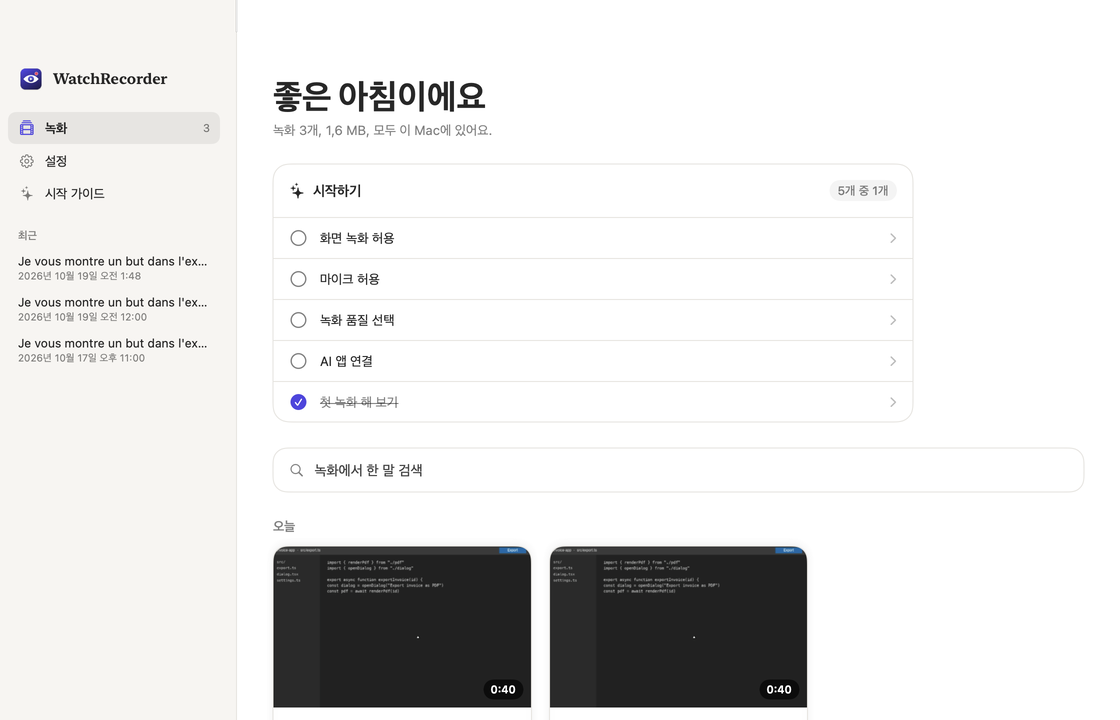
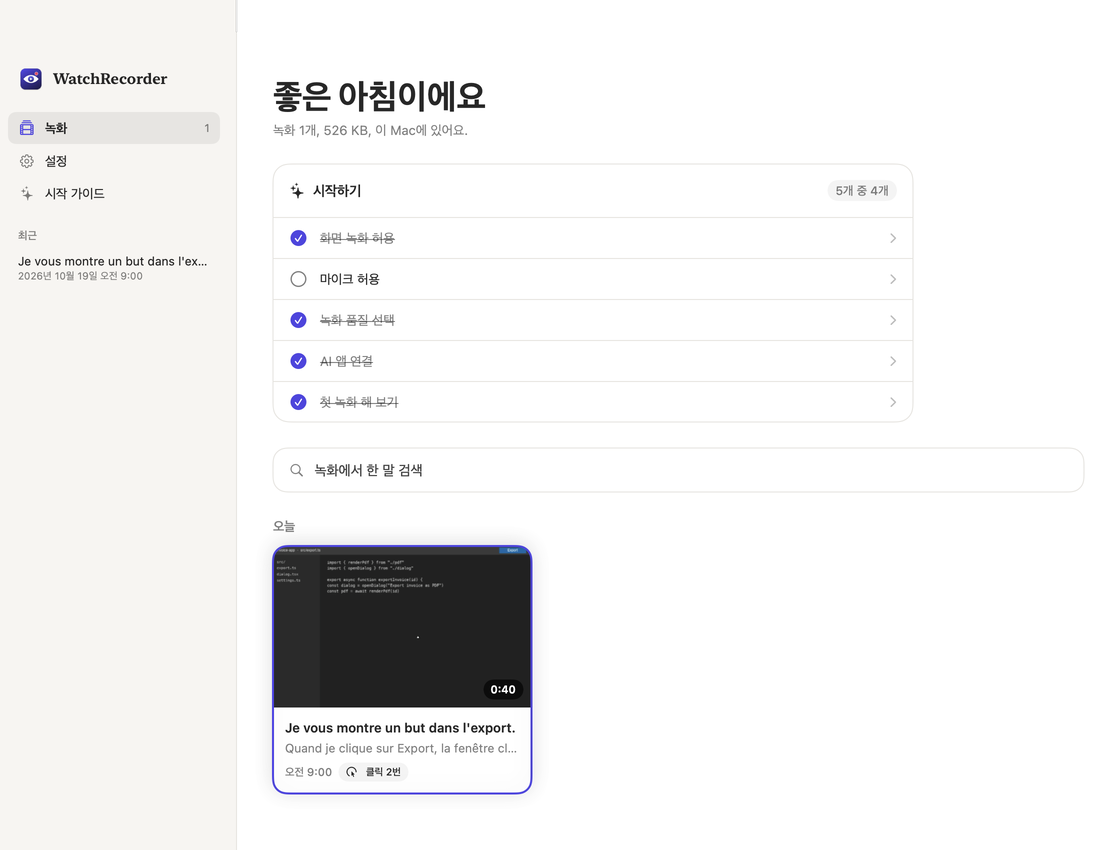
Update README, screenshots and add a WatchRecorder tour GIF
The README now covers the Dock icon, the new setup order, quitting
Claude Desktop before install and Accessibility only for automatic
paste; its intro names Codex and Cursor too. Screenshots are redrawn
from the current app, plus a Screen step one and a short tour GIF
made from the app's own rendering (scripts/make-app-gif.sh).

diff --git a/README.md b/README.md
@@ -2,7 +2,16 @@
 
 # watch-mcp
 
-**Let Claude watch videos.** Drop an MP4/MOV/MKV/WebM path into Claude Code, Claude Desktop or Cursor, and Claude sees what happens on screen and hears what is said, without anyone touching ffmpeg.
+<p align="center">
+  <a href="https://www.npmjs.com/package/watch-mcp"><img src="https://img.shields.io/npm/v/watch-mcp?color=4f46e5" alt="npm version"></a>
+  <a href="LICENSE"><img src="https://img.shields.io/badge/license-MIT-4f46e5" alt="MIT license"></a>
+  <img src="https://img.shields.io/badge/MCP-server-4f46e5" alt="MCP server">
+  <img src="https://img.shields.io/badge/local-no%20upload-4f46e5" alt="Runs locally">
+</p>
+
+**Let Claude, Codex and Cursor watch your videos and screen recordings.** watch-mcp is an MCP server: give Claude Code, Codex, Claude Desktop or Cursor the path of an MP4/MOV/MKV/WebM file, and the AI sees what happens on screen and hears what is said: timestamped storyboards, a local Whisper transcript, and zoom on any moment. Nothing is uploaded, and nobody has to touch ffmpeg.
+
+**And show your AI instead of typing.** [WatchRecorder](#watchrecorder-show-your-ai-instead-of-typing-macos), the macOS companion app: press ⌥⇧R, show the bug while you explain it out loud, press ⌥⇧R again, and your AI gets the recording.
 
 **Install it by giving this repository to your AI.** In Claude Code, Codex or Cursor, say:
 
@@ -35,7 +44,7 @@ Everything runs on your machine. No API key, no upload.
 
 Requires Node.js 20 or later. ffmpeg comes bundled with the package (via [ffmpeg-static](https://www.npmjs.com/package/ffmpeg-static) and [@ffprobe-installer/ffprobe](https://www.npmjs.com/package/@ffprobe-installer/ffprobe)); the Whisper bindings come prebuilt ([@fugood/whisper.node](https://www.npmjs.com/package/@fugood/whisper.node)), so nothing compiles on install.
 
-**Every AI app at once.** `npx -y watch-mcp install` finds Claude Code, Codex, Claude Desktop and Cursor on this machine and adds watch-mcp to each (idempotent; every edited file is backed up as `*.watch-mcp.bak`; `--dry-run` shows the plan, `--client codex` limits it, `npx -y watch-mcp uninstall` removes it). To do it by hand instead:
+**Every AI app at once.** `npx -y watch-mcp install` finds Claude Code, Codex, Claude Desktop and Cursor on this machine and adds watch-mcp to each (idempotent; every edited file is backed up as `*.watch-mcp.bak`; `--dry-run` shows the plan, `--client codex` limits it, `npx -y watch-mcp uninstall` removes it). Quit Claude Desktop first: while it is open it writes its settings file back from memory and drops the change, so `install` leaves that file alone and says so. To do it by hand instead:
 
 **Claude Code**
 
@@ -52,7 +61,7 @@ args = ["-y", "watch-mcp"]
 startup_timeout_sec = 60
 ```
 
-**Claude Desktop** (`~/Library/Application Support/Claude/claude_desktop_config.json` on macOS, `%APPDATA%\Claude\claude_desktop_config.json` on Windows), then restart the app:
+**Claude Desktop** (`~/Library/Application Support/Claude/claude_desktop_config.json` on macOS, `%APPDATA%\Claude\claude_desktop_config.json` on Windows), edited while Claude Desktop is quit, then reopen it:
 
 ```json
 {
@@ -160,7 +169,7 @@ Whisper large-v3-turbo (q5_0) transcribed 29.5 s of French and English speech in
 
 [claude-video](https://github.com/bradautomates/claude-video) is a good agent *skill* with the same goal: it fetches a URL or local file, extracts scene-aware frames as separate images (up to 512 px wide), and gets a transcript from captions, local WhisperX or a cloud Whisper API. watch-mcp takes a different route:
 
-- **An MCP server**, so it works in any MCP client: Claude Code, Claude Desktop chats, Cursor.
+- **An MCP server**, so it works in any MCP client: Claude Code, Codex, Claude Desktop chats, Cursor.
 - **Storyboards instead of loose frames**: 64 keyframes travel as 4 images, far from the per-request image caps, with every tile labelled by frame number and time.
 - **Drill-down** (`zoom`, `frame`, `crop`) instead of re-running the extraction.
 - **Local by default**: bundled ffmpeg, Whisper on Metal with voice activity detection, no keys.
@@ -168,7 +177,9 @@ Whisper large-v3-turbo (q5_0) transcribed 29.5 s of French and English speech in
 
 ## WatchRecorder: show your AI instead of typing (macOS)
 
-A native menu-bar app in [`companion/`](companion/), in English, French and Korean. Press **⌥⇧R**, show the problem while you explain it out loud, press **⌥⇧R** again. A floating pill shows that it is recording (live microphone level, timer, click to stop) and is left out of the video. Then WatchRecorder:
+<p align="center"><img src="docs/watchrecorder.gif" width="720" alt="WatchRecorder tour: the setup guide (microphone, shortcut, quality, AI apps, screen), then the library and a recording with its transcript"></p>
+
+A native macOS app in [`companion/`](companion/), in English, French and Korean, in the Dock and the menu bar. Press **⌥⇧R**, show the problem while you explain it out loud, press **⌥⇧R** again. A floating pill shows that it is recording (live microphone level, timer, click to stop) and is left out of the video. Then WatchRecorder:
 
 1. saves a [recording bundle](#recording-bundles-watch-an-open-format) in `~/Movies/WatchRecorder/`: the screen under the mouse pointer and your microphone in one video (same clock), plus what you did (clicks with their position, app switches, and, only if you already trust the app for Accessibility, how long and how much you typed, never which keys),
 2. runs `watch-mcp finalize` on it: your words are transcribed with word timestamps and written into the bundle, and the storyboards are prepared, so the AI's first look is instant,
@@ -184,19 +195,23 @@ What I said: "When I click Export the dialog flickers and closes. Fix it."
 Use the watch-mcp tools (latest_recording, or watch_video with the path above) to see what I showed on screen.
 ```
 
-**The library** (menu bar icon > *Open WatchRecorder*) lists every recording by day with the first thing you said, a search over everything said, and for each recording the video, the keyframes the AI will see, the transcript (click a line to jump there) and what you did. *Send to my AI* hands any past recording over again.
+**The library** (click the Dock icon) lists every recording by day with the first thing you said, a search over everything said, and for each recording the video, the keyframes the AI will see, the transcript (click a line to jump there) and what you did. *Send to my AI* hands any past recording over again.
 
 <p align="center">
   <img src="docs/screenshots/library.png" width="49%" alt="WatchRecorder library: recordings by day, search over what was said, a get-started checklist">
   <img src="docs/screenshots/recording.png" width="49%" alt="A recording: video, keyframes the AI sees, transcript with timestamps">
 </p>
+<p align="center"><sub>Also in <a href="docs/screenshots/library-dark.png">dark mode</a> and <a href="docs/screenshots/library-ko.png">Korean</a>.</sub></p>
 
-**The setup guide** opens on first launch: one step per screen, each one tested for real (the microphone shows your voice, the shortcut has to be pressed, a first recording is made). It asks for each macOS permission only when you click, connects your AI apps with `watch-mcp install`, and lets you pick a quality preset with what it costs: image tokens per minute computed with Anthropic's image formula, and file size per minute measured on your own recordings.
+**The setup guide** opens on first launch: one step per screen, each one tested for real (the microphone shows your voice, the shortcut has to be pressed, a first recording is made), and each one moves on by itself once it works. Microphone, shortcut, quality and AI apps come first; Screen Recording comes last, right before the first recording, because it goes through System Settings. Quitting halfway is fine: setup picks up where you left it. It asks for each macOS permission only when you click, connects your AI apps with `watch-mcp install`, and lets you pick a quality preset with what it costs: image tokens per minute computed with Anthropic's image formula, and file size per minute measured on your own recordings.
 
 <p align="center">
-  <img src="docs/screenshots/setup-welcome.png" width="32%" alt="Setup guide: welcome">
-  <img src="docs/screenshots/setup-quality.png" width="32%" alt="Setup guide: quality presets with image tokens and file size">
-  <img src="docs/screenshots/setup-connect.png" width="32%" alt="Setup guide: connect your AI apps">
+  <img src="docs/screenshots/setup-welcome.png" width="49%" alt="Setup guide: welcome">
+  <img src="docs/screenshots/setup-quality.png" width="49%" alt="Setup guide: quality presets with image tokens and file size">
+</p>
+<p align="center">
+  <img src="docs/screenshots/setup-connect.png" width="49%" alt="Setup guide: connect your AI apps">
+  <img src="docs/screenshots/setup-screen.png" width="49%" alt="Setup guide: the Screen Recording switch to turn on in System Settings">
 </p>
 
 | Preset | Video | Keyframes for 1 min | Image tokens for 1 min (upper bound) |
@@ -213,15 +228,15 @@ The preset is stored in the bundle, so `watch_video` shows that many keyframes b
 cd companion && ./build-app.sh && open build/WatchRecorder.app
 ```
 
-The icon sits in the menu bar (no Dock icon). It is red while recording; recordings stop by themselves after 10 minutes.
+Click the Dock icon to open the library; right-click it to start a recording. The menu bar icon turns red while recording (on a MacBook with a full menu bar, macOS may hide it behind the notch: ⌥⇧R and the Dock icon still work). *Show in the Dock* in Settings turns the Dock icon off. Recordings stop by themselves after 10 minutes.
 
 **Permissions.** macOS asks once for each:
 
-- **Screen & System Audio Recording**: the first ⌥⇧R opens the system prompt. Turn WatchRecorder on in System Settings > Privacy & Security > Screen & System Audio Recording, then quit and reopen the app (macOS applies this permission at launch).
+- **Screen & System Audio Recording**: the last step of the setup guide (or the first ⌥⇧R) opens the system prompt. Turn WatchRecorder on in System Settings > Privacy & Security > Screen & System Audio Recording. The setup guide watches for it and moves on as soon as it works. If macOS offers to quit and reopen WatchRecorder, either answer is fine: after a reopen you land on your first recording.
 - **Microphone**: an Allow / Don't Allow dialog. Without it, WatchRecorder records the screen only.
 - **Accessibility** (optional): only for *Paste Automatically*, which presses ⌘V for you. WatchRecorder asks for it only when you turn that option on, never by itself.
 
-The global shortcut uses Carbon's `RegisterEventHotKey`, which needs no Accessibility permission. Clicks are observed with a global mouse monitor; per Apple's `NSEvent` documentation only key events need Accessibility trust, and WatchRecorder never asks for it (typing is simply left out when it is not granted). Double-clicking a `.watch` bundle in Finder opens its video. **Keeping permissions across rebuilds.** macOS ties these permissions to the app's code signature. `build-app.sh` signs ad-hoc by default, so every rebuild looks like a new app: the Screen Recording switch may stay on while applying to the old build (remove WatchRecorder with **−**, or run `tccutil reset ScreenCapture io.github.takinggg.watchrecorder`, then allow it again). This only concerns people who build the app themselves: a released app signed with a Developer ID keeps one identity across updates, so its users grant the permissions once. To sign every local build with the same identity, run `companion/make-signing-identity.sh` once (it makes a self-signed certificate in a keychain file inside `companion/.signing/`, not in your login keychain), then trust that certificate for code signing, which asks for your password: `security add-trusted-cert -r trustRoot -p codeSign -k "$PWD/companion/.signing/watchrecorder.keychain-db" companion/.signing/cert.pem` (from the repository root; `security` reads a relative keychain path as relative to `~/Library/Keychains`). From then on `build-app.sh` uses it (codesign only reads keychains on your search list, so the script lists the project keychain while signing and restores the list right after), and permissions survive rebuilds. `WATCHRECORDER_SIGN_IDENTITY="<name>"` uses any other signing certificate you have.
+The global shortcut uses Carbon's `RegisterEventHotKey`, which needs no Accessibility permission. Clicks are observed with a global mouse monitor; per Apple's `NSEvent` documentation only key events need Accessibility trust, and WatchRecorder asks for it only when you turn on *Paste Automatically* (typing is simply left out when it is not granted). Double-clicking a `.watch` bundle in Finder opens its video. **Keeping permissions across rebuilds.** macOS ties these permissions to the app's code signature. `build-app.sh` signs ad-hoc by default, so every rebuild looks like a new app: the Screen Recording switch may stay on while applying to the old build (remove WatchRecorder with **−**, or run `tccutil reset ScreenCapture io.github.takinggg.watchrecorder`, then allow it again). This only concerns people who build the app themselves: a released app signed with a Developer ID keeps one identity across updates, so its users grant the permissions once. To sign every local build with the same identity, run `companion/make-signing-identity.sh` once (it makes a self-signed certificate in a keychain file inside `companion/.signing/`, not in your login keychain), then trust that certificate for code signing, which asks for your password: `security add-trusted-cert -r trustRoot -p codeSign -k "$PWD/companion/.signing/watchrecorder.keychain-db" companion/.signing/cert.pem` (from the repository root; `security` reads a relative keychain path as relative to `~/Library/Keychains`). From then on `build-app.sh` uses it (codesign only reads keychains on your search list, so the script lists the project keychain while signing and restores the list right after), and permissions survive rebuilds. `WATCHRECORDER_SIGN_IDENTITY="<name>"` uses any other signing certificate you have.
 
 **What gets recorded:** the whole display under the mouse pointer, notifications and all, plus the microphone, clicks and app switches. Never which keys you press. System audio is not recorded. Files stay on your Mac.
 
@@ -235,6 +250,7 @@ The global shortcut uses Carbon's `RegisterEventHotKey`, which needs no Accessib
 | `RecordMicrophone` | `true` | also in the menu |
 | `Quality` | `balanced` | `light`, `balanced` or `detailed`; also in Settings |
 | `AppLanguage` | `auto` | `auto` (the Mac's language), `en`, `fr` or `ko`; also in Settings |
+| `ShowInDock` | `true` | `false` keeps WatchRecorder in the menu bar only; also in Settings |
 | `SendTo` | `auto` | `auto` (the AI app you were using: in front when you stop, else the last one you used), `claude`, `codex`, `off` (clipboard only), or an app's bundle id; also in the menu |
 | `AutoPaste` | `false` | press ⌘V in that app for you (needs Accessibility); also in the menu |
 | `WatchMcpCommand` | `npx -y watch-mcp` | how the app runs watch-mcp; when the app is built inside a watch-mcp checkout it uses that checkout's `dist/cli.js` |
@@ -330,7 +346,7 @@ Videos never leave your machine. The only network access is the one-time model d
 
 ## Limitations
 
-- Tested on macOS 26 with Apple Silicon only, through Claude Code. Linux, Windows and Intel Macs should work (all dependencies ship builds for them) but have not been tried yet; neither have Claude Desktop and Cursor (their configuration above follows their documentation).
+- Tested on macOS 26 with Apple Silicon only, through Claude Code. Linux, Windows and Intel Macs should work (all dependencies ship builds for them) but have not been tried yet; neither have Codex, Claude Desktop and Cursor (`watch-mcp install` writes their configuration as their documentation describes, but no session in them has used the tools yet). WatchRecorder needs macOS 15 or later and has only run on macOS 26.
 - Sounds other than speech (music, clicks, alerts) are not described.
 - A change that lasts less than the gap between two analysis samples (1/8 s on videos up to 5 minutes, more on longer ones) can be missed by `watch_video`; `zoom` can look at every frame of a short segment.
 - Cursor-only movement is usually too small to count as a change.
@@ -341,13 +357,14 @@ Videos never leave your machine. The only network access is the one-time model d
 
 ```bash
 npm install
-npm test          # 56 tests: unit, ffmpeg pipeline, bundles, MCP over stdio, transcription (macOS)
+npm test          # 65 tests: unit, ffmpeg pipeline, bundles, install, MCP over stdio, transcription (macOS)
 npm run build
 node dist/cli.js watch some-video.mp4 --out ./watch-output   # storyboards + timeline.txt
 scripts/make-demo-video.sh && scripts/make-demo-gif.sh        # the demo above (macOS)
+scripts/make-app-gif.sh                                        # the WatchRecorder tour (needs the built app and demo/)
 node scripts/make-demo-bundle.mjs && node dist/cli.js finalize demo/demo-screen.watch   # demo bundle (synthetic events)
 swift companion/Scripts/make-icon.swift "$PWD"                 # redraws the logo and the app icon
-cd companion && swift test                                     # WatchRecorder: 13 tests (shortcut, prompt, bundle files, events, delivery)
+cd companion && swift test                                     # WatchRecorder: 26 tests (shortcut, prompt, bundle, delivery, setup, menus)
 ```
 
 `WatchRecorder --render-ui <out dir> <recordings folder> [--language en|fr|ko]` draws every screen (setup guide, library, recording, settings; light and dark) to PNG files without recording anything; the screenshots above come from it, on the synthetic demo. `WatchRecorder --handoff-test <bundle.watch>` runs everything that follows a recording (finalize, state file, prompt) on an existing bundle and prints the prompt instead of copying it. `WatchRecorder --self-test <seconds> <out.mov>` records only a test window drawn by the app itself (needs the Screen Recording permission).
